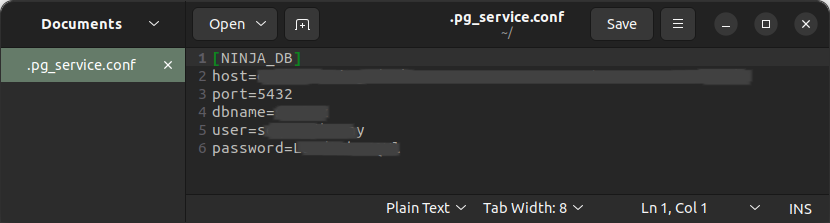
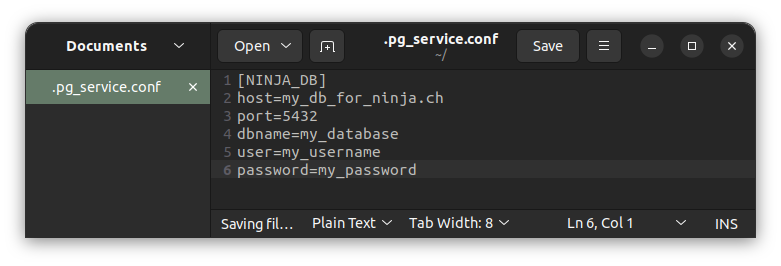
Removing the repeated parameters

diff --git a/documentation/how-to/pg-service.en.md b/documentation/how-to/pg-service.en.md
@@ -53,19 +53,7 @@ We first need to setup a configuration file. There are a lot of option to organi
    password=your_password
    ```
 
-   Replace placeholders (`your_host_or_ip`, `your_port`, `your_database_name`, `your_username`, `your_password`) with actual connection details.
-
-3. **Save the File**:
-   Save the file after adding the connection parameters.
-
-   ```
-   [NINJA_DB]
-   host=my_db_for_ninja.ch
-   port=5432
-   dbname=my_database
-   user=my_username
-   password=my_password
-   ```
+   Replace placeholders (`your_host_or_ip`, `your_port`, `your_database_name`, `your_username`, `your_password`) with actual connection details and save the file.
 
 !![Parameters](../assets/images/service_config_file_001.png)
 
